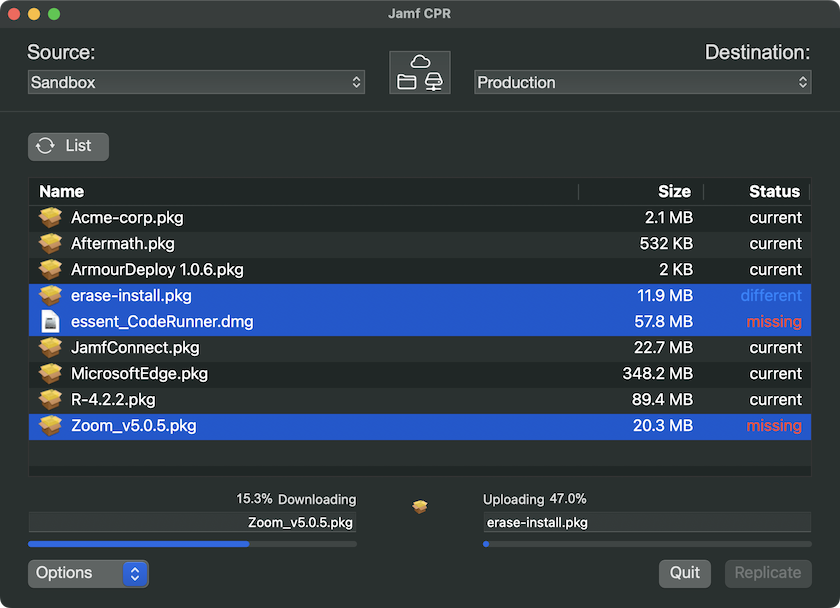
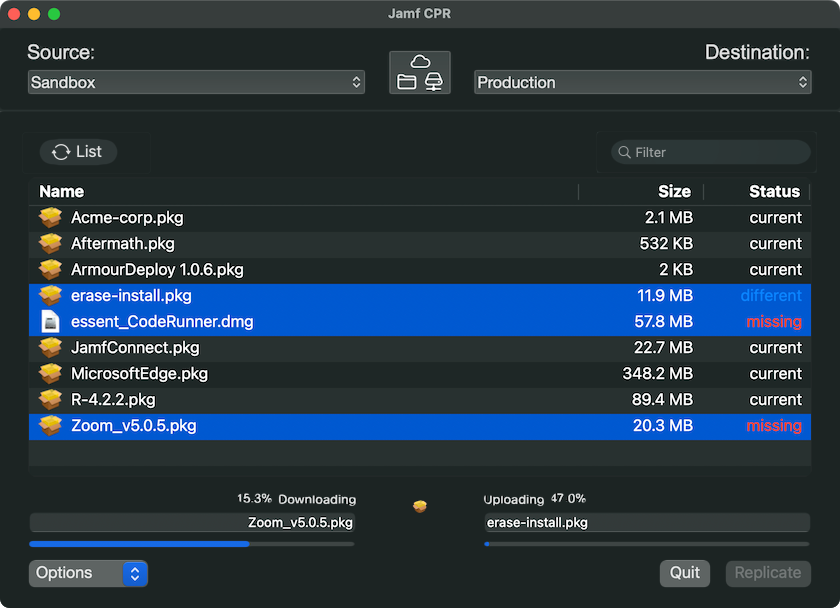
update

diff --git a/README.md b/README.md
@@ -39,4 +39,7 @@ Note, percents shown represent percent of current file being uploaded/downloaded
     20210512_050023 Status: READY
 ```
 
-Application log is available in ~/Library/Logs/jamfcpr/. You can quickly access the logs folder from the menu bar, View --> Show Logs or ⌘-L.
+Application log is available in:
+```~/Library/Containers/jamf.ie.jamfcpr/Data/Library/Logs/```
+
+You can quickly access the logs folder from the menu bar, View --> Show Logs or ⌘-L.

diff --git a/CHANGELOG.md b/CHANGELOG.md
@@ -1,5 +1,13 @@
 # 📜 Version History
 
+## [6.3.0] - 2026-06-06
+### Fixed
+- Token refresh
+- Inventory refresh after uploading a package
+### Added
+- Support S3 bucket for on prem servers
+- Add package search field
+  
 ## [6.2.3] - 2026-03-21
 ### Fixed
 - Resolve various upload failures.  
